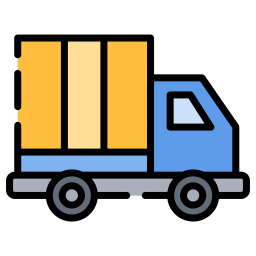
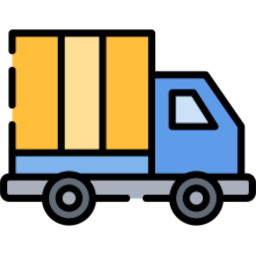
v1.0.3
- Changed to update /volumeN backup path in config file if the shared folder has been moved to a different volume.
- Improved the messages when clicking on Backup or Restore when you haven't set the backup path.
- Changed package's icon to be larger.

Changed region(s): [[0.0, 0.0938, 1.0, 0.9062]]

diff --git a/src/ui/main.js b/src/ui/main.js
@@ -56,6 +56,8 @@ Ext.define("SYNO.SDS.App_Mover.MainWindow", {
 
     watchMs: 10000,       // how often to look for a job something else started
 
+    noPathMessage: "Set the backup location in Settings first.",
+
     constructor: function(a) {
         this.appInstance = a.appInstance;
         this.pollMs = 1000;         // how often to ask for new output
@@ -148,10 +150,10 @@ Ext.define("SYNO.SDS.App_Mover.MainWindow", {
             '  .am-log::-webkit-scrollbar-track { background:#0f1680; }',
             '  .am-log::-webkit-scrollbar-thumb { background:#9bb8ee; border:3px solid #0f1680; border-radius:8px; min-height:40px; }',
             '  .am-log::-webkit-scrollbar-thumb:hover { background:#c3d6f7; }',
-            '  .am-list, .am-modal-text, .am-sch-apps, .am-pk-list { scrollbar-color:#6b7c93 #e9edf2; scrollbar-width:auto; }',
+            '  .am-list, .am-modal-text, .am-sch-apps, .am-pk-list { scrollbar-color:#8b8b8b #e9edf2; scrollbar-width:auto; }',
             '  .am-list::-webkit-scrollbar, .am-modal-text::-webkit-scrollbar, .am-sch-apps::-webkit-scrollbar, .am-pk-list::-webkit-scrollbar { width:14px; }',
             '  .am-list::-webkit-scrollbar-track, .am-modal-text::-webkit-scrollbar-track, .am-sch-apps::-webkit-scrollbar-track, .am-pk-list::-webkit-scrollbar-track { background:#e9edf2; }',
-            '  .am-list::-webkit-scrollbar-thumb, .am-modal-text::-webkit-scrollbar-thumb, .am-sch-apps::-webkit-scrollbar-thumb, .am-pk-list::-webkit-scrollbar-thumb { background:#6b7c93; border:3px solid #e9edf2; border-radius:8px; min-height:40px; }',
+            '  .am-list::-webkit-scrollbar-thumb, .am-modal-text::-webkit-scrollbar-thumb, .am-sch-apps::-webkit-scrollbar-thumb, .am-pk-list::-webkit-scrollbar-thumb { background:#8b8b8b; border:3px solid #e9edf2; border-radius:8px; min-height:40px; }',
             '  .am-list::-webkit-scrollbar-thumb:hover, .am-modal-text::-webkit-scrollbar-thumb:hover, .am-sch-apps::-webkit-scrollbar-thumb:hover, .am-pk-list::-webkit-scrollbar-thumb:hover { background:#4f607a; }',
             '  .am-modal-backdrop { display:none; position:absolute; top:0; left:0; right:0; bottom:0; background:rgba(0,0,0,0.45); z-index:1000; align-items:center; justify-content:center; }',
             '  .am-modal-backdrop.open { display:flex; }',
@@ -230,7 +232,7 @@ Ext.define("SYNO.SDS.App_Mover.MainWindow", {
             '        <label>Backup location</label>',
             '        <div class="am-pathrow">',
             '          <input type="text" class="am-set-path" placeholder="/volume1/backups">',
-            '          <button type="button" class="am-browse">Browse\u2026</button>',
+            '          <button type="button" class="am-browse">Browse</button>',
             '        </div>',
             '        <div class="am-hint">An existing folder, like /volume1/backups. Letters, numbers and . _ + - only.</div>',
             '      </div>',
@@ -793,7 +795,17 @@ Ext.define("SYNO.SDS.App_Mover.MainWindow", {
         var path = this.settings.backuppath, exists = this.settings.backuppath_exists;
         var ok = !!(path && exists), lines = [], notes = this.el$.notesBackup;
         if (!path) {
-            lines.push("Set the backup location in Settings first.");
+            lines.push(this.noPathMessage);
+            // also at the top, in red, if this tab is showing
+            if (this.panels.backup.classList.contains("active")) { this.setMessage(this.noPathMessage, true); }
+        } else if (this.el$.message.textContent === this.noPathMessage) {
+            this.setMessage("", false);
+            if (!exists) {
+                lines.push("The backup location " + path + " was not found. Change it in Settings.");
+            } else {
+                lines.push("Backups are saved in " + path + "/syno_app_mover");
+                lines.push(this.scheduleSummary());
+            }
         } else if (!exists) {
             lines.push("The backup location " + path + " was not found. Change it in Settings.");
         } else {
@@ -929,7 +941,7 @@ Ext.define("SYNO.SDS.App_Mover.MainWindow", {
     // Restore
     // ---------------------------------------------------------------
     loadBackups: function() {
-        var id = ++this.req.restore, keep;
+        var id = ++this.req.restore, keep, msg;
         if (this.el$.listRestore.querySelector("input.am-cb")) { this.restoreKeep = this.checked(this.el$.listRestore); }
         keep = this.restoreKeep || [];
         this.el$.listRestore.innerHTML = '<div class="am-empty">Loading\u2026</div>';
@@ -939,7 +951,10 @@ Ext.define("SYNO.SDS.App_Mover.MainWindow", {
             var items, html, i, b, note;
             if (!resp || !resp.success) {
                 this.el$.listRestore.innerHTML = "";
-                this.setMessage((resp && resp.message) || "Could not list the backups", true);
+                msg = (resp && resp.message) || "Could not list the backups";
+                // The list script's own message names a file. Say what to do instead.
+                if (/^backuppath missing from /.test(msg)) { msg = this.noPathMessage; }
+                this.setMessage(msg, true);
                 this.backups = [];
                 this.updateRestoreButton();
                 return;
